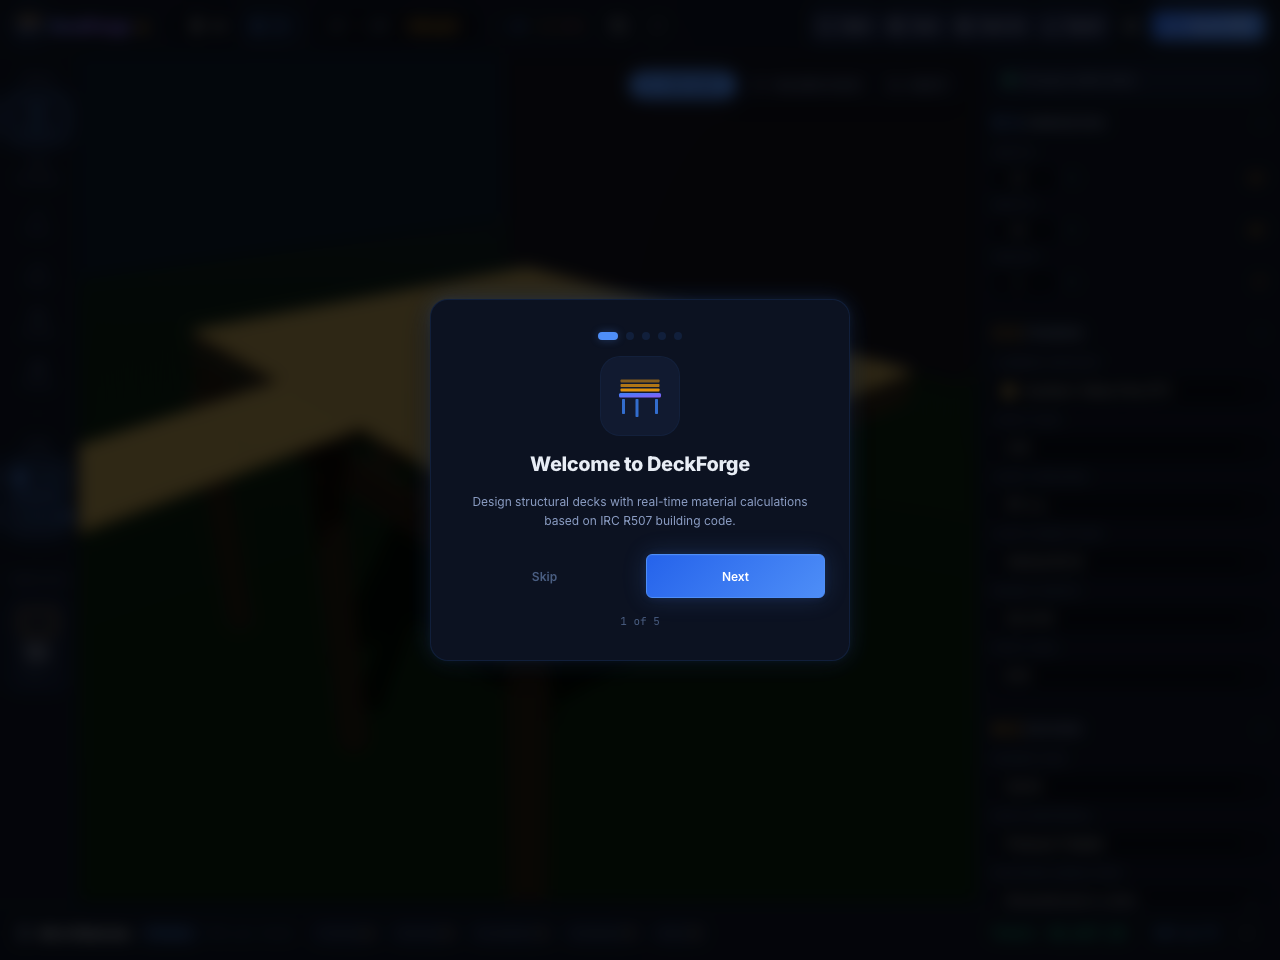
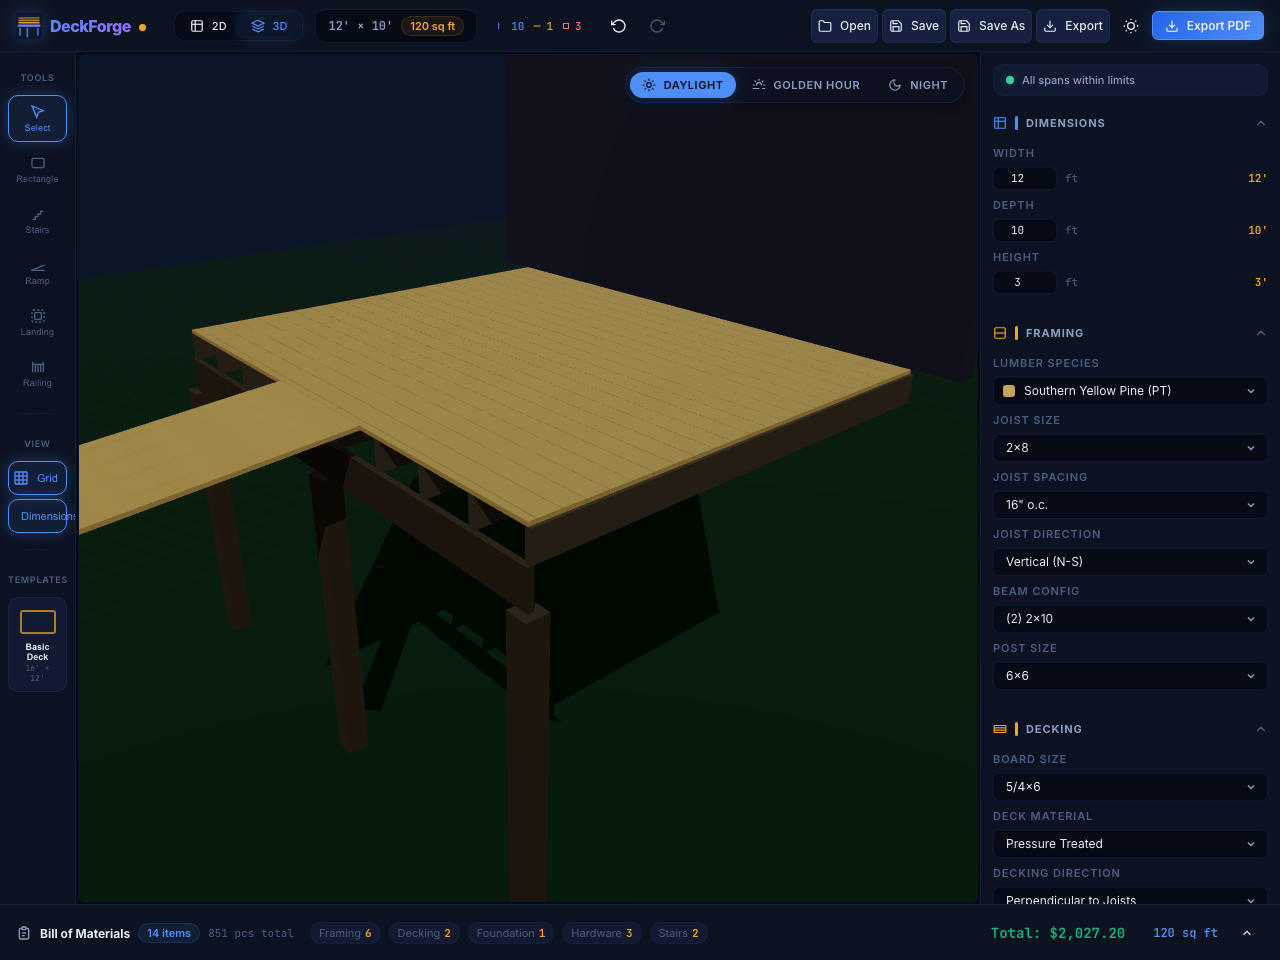
Dismiss onboarding modal in browser test before taking screenshots

diff --git a/browser-ramp-verification.js b/browser-ramp-verification.js
@@ -78,6 +78,14 @@ try {
   await page.goto(serverUrl);
   await page.waitForSelector('.canvas-2d__canvas');
 
+  // Dismiss onboarding modal to ensure views are unobstructed
+  console.log('Dismissing onboarding modal...');
+  const skipBtn = await page.$('.onboarding__skip');
+  if (skipBtn) {
+    await skipBtn.click();
+    await page.waitForTimeout(300);
+  }
+
   console.log('Loading rectangular project...');
   await page.evaluate((proj) => {
     window.useDeckStore.getState().loadProject(proj.sections, proj.materials);